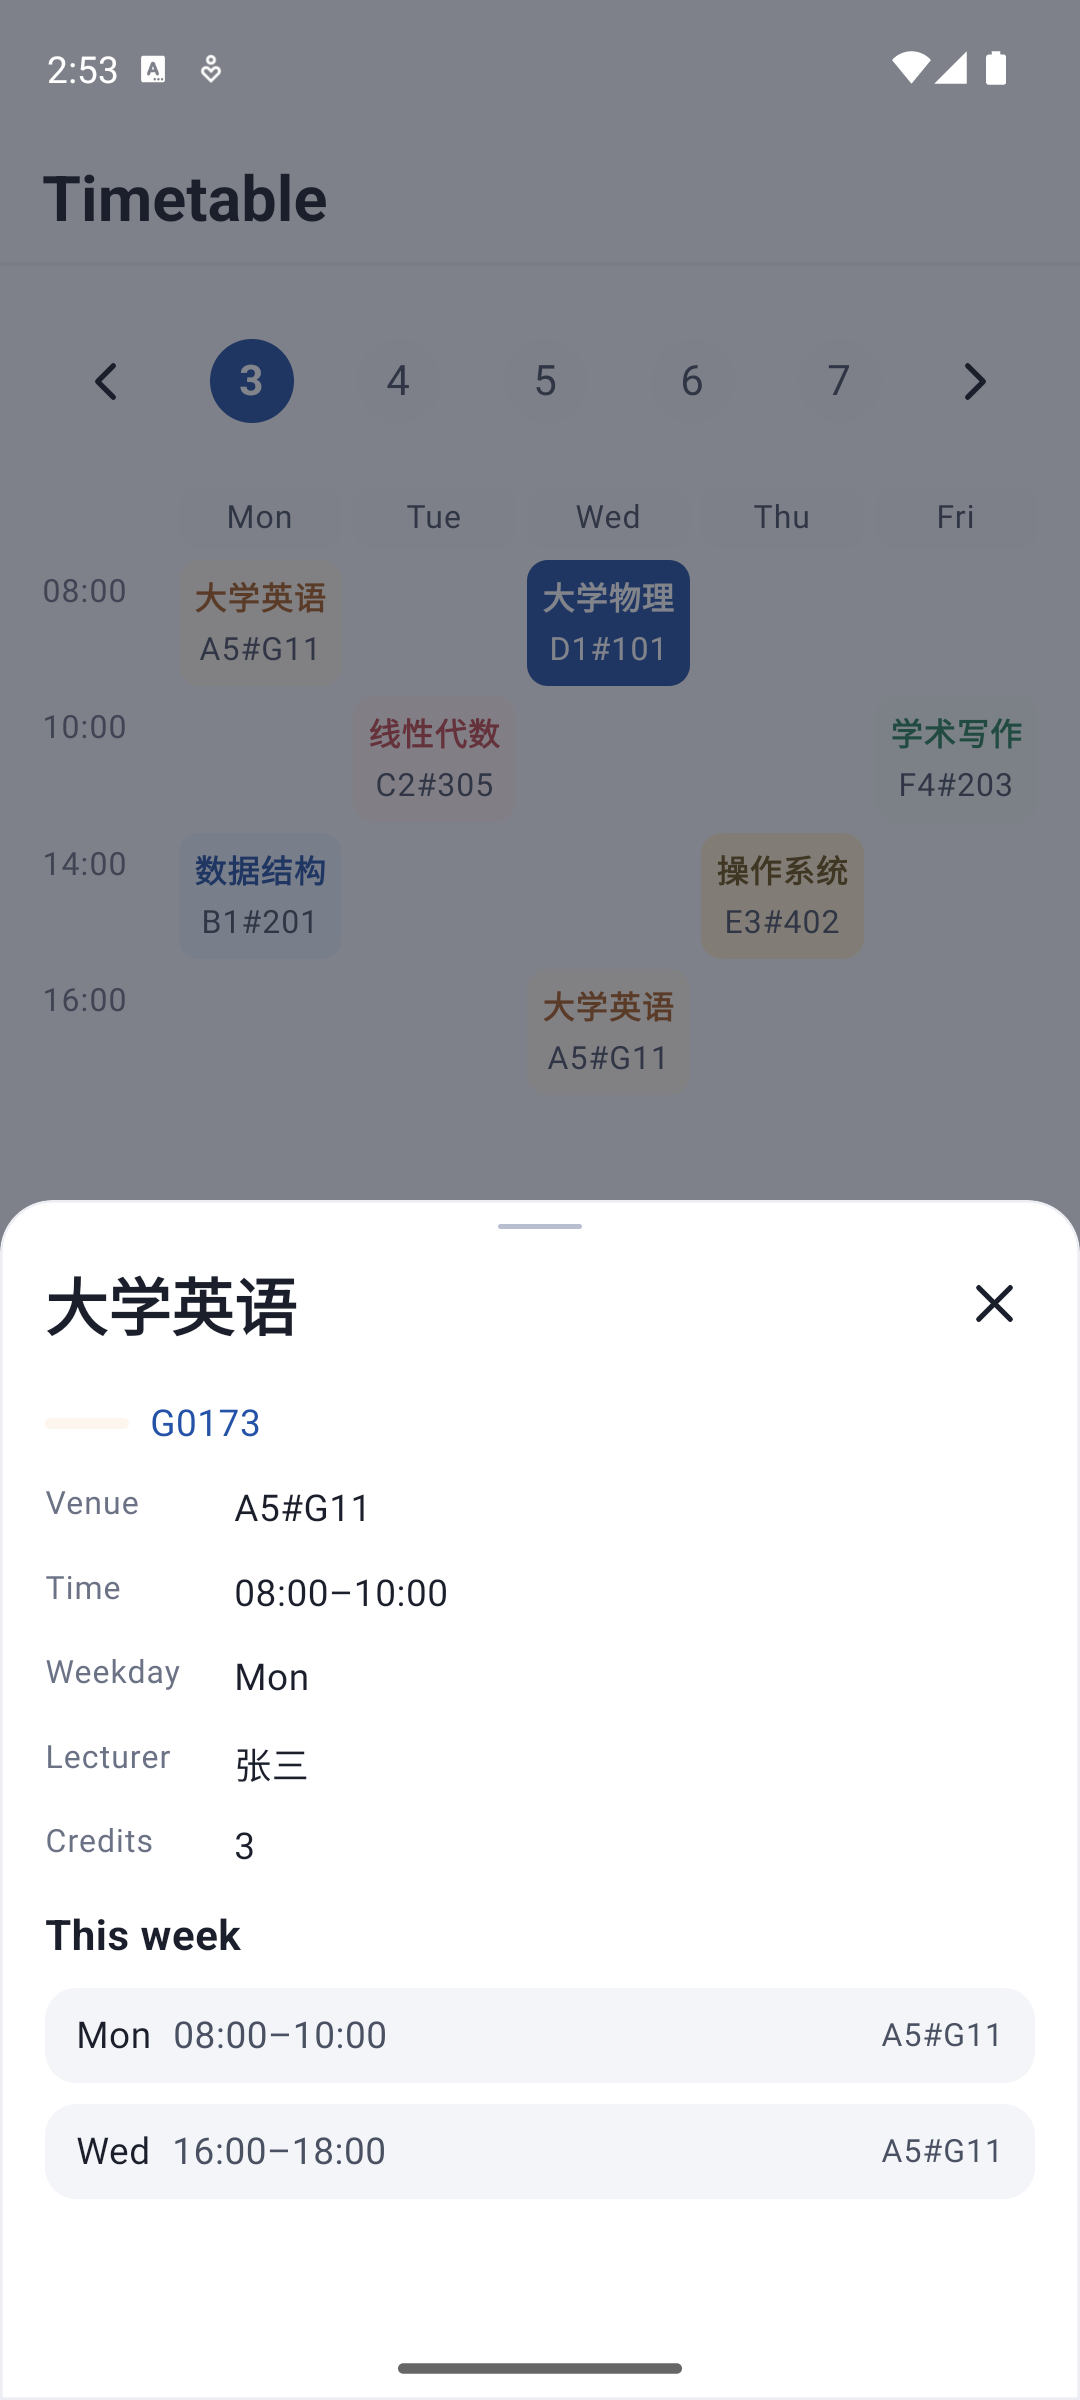
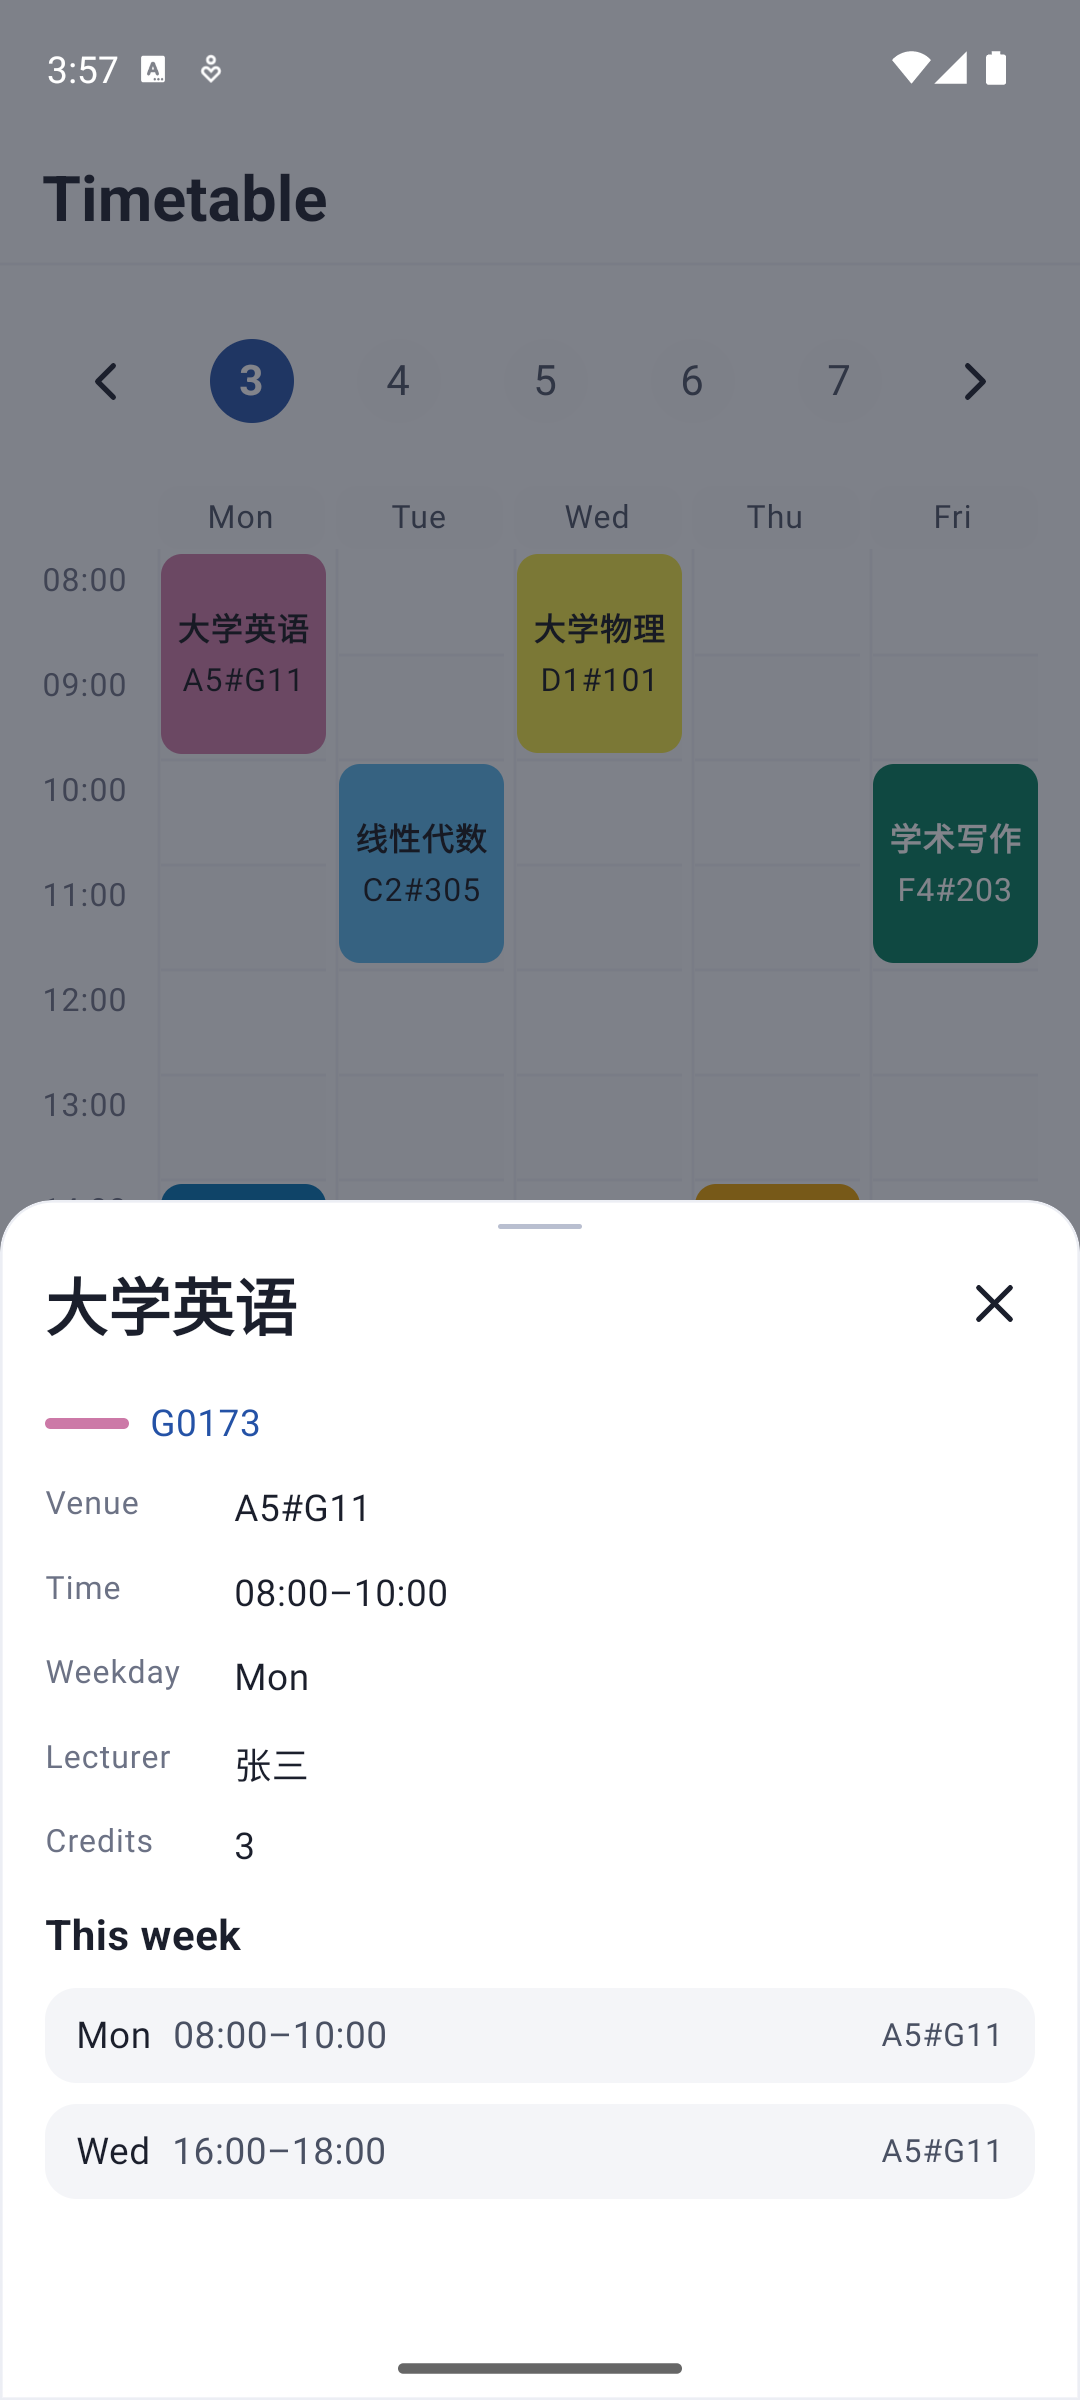
docs(timetable): 回写时间轴与色弱色板裁决，补第二轮设备证据

diff --git a/docs/app/task/课表重做/00-批次总览与施工计划.md b/docs/app/task/课表重做/00-批次总览与施工计划.md
@@ -107,3 +107,35 @@
 - **手势拖拽关闭未做**：三种关闭方式已满足，拖拽留 v1.1。
 - **课程色跨周稳定性**：按本周课程集合分配，集合变化时颜色允许位移（同周内绝对稳定）；如需全局稳定要改成哈希+冲突解决，另开任务。
 - Metro 的 Windows 文件监听在本机对 `app/src` 热更新不稳定：本轮截图均以「重启 Metro + `--clear` + 冷启动 App」取得。
+
+---
+
+## 7. 同日追加（所有者 2026-10-18 第二轮）
+
+> 原话：「从早上 8 点一直到晚上 9 点的时间轴都要做出来。就算没课也要空着。颜色的色差可以大一点，这样更好区分。我是色弱。」
+
+### 7.1 需求 → 方案
+
+| # | 需求 | 方案 | 落点 |
+|---|---|---|---|
+| R6 | 时间轴 08:00–21:00 全画出来，没课也空着 | 固定 **13 个整点格（08–09 … 20–21）+ 08…21 共 14 个刻度**；格高 40dp（令牌相加），**一屏看到 21:00**；空行画整点分隔线 + 隔行浅底 | `proto/P11/TimetableGrid.tsx`、`timetableView.ts` 的 `layoutTimetableCard` |
+| R7 | 色差更大，色弱也能分清 | 新增**色弱友好课程色板** `course-1..6`（CUD/Okabe-Ito 取向：蓝/橙/青绿/品红/天蓝/黄，色相+明度同时拉开，实心填充）；课程卡 = 实心色块 + 同名色承载文字 | `tokens/design-tokens.css` §2.3'、`timetableView.ts` |
+
+**实现细节**：
+- 课程卡按真实 `start_time/end_time` **绝对定位**在时间轴上（⛔ 不再按"开始时间行"堆叠）；窗口外的课丢弃、跨窗口部分钳进窗口；半小时课有 44dp 最短可读高度。
+- 一张卡同时显示**课程名（最多 2 行）+ 地点（1 行）**；列宽加大后 `A5#G11` 这类地点完整可见。
+- 空周不再用空态替换网格：**永远画轴**，底部「导入课表 / 刷新」常驻。
+- 新增/改写用例：`p3a7-timetable-axis`（8 例：分钟解析、top/height、窗口钳制、14 个刻度、空周仍有轴、卡片绝对定位）；p1-16 / p3y2 的空周断言改为"轴仍在 + 导入入口"。
+
+### 7.2 验收结果
+
+- `tsc --noEmit` 通过；全量 Jest **155 套通过 / 1709 例通过（16 skip，0 fail）**；四把尺子 4/4（`gen-tokens` 新增 12 个 textSafe 令牌，**34 个 textSafe 全部达标**）；`expo lint` **0 error / 231 warning（与本次基线一致，未新增）**。
+- 截图（**fixture 数据**）：
+  - [`after-timetable-axis.png`](img-timetable/after-timetable-axis.png)：08:00–21:00 整轴一屏可见、空行可见、6 门课 6 个高差异色、同课两段同色、每卡名称+地点完整
+  - [`after-course-sheet.png`](img-timetable/after-course-sheet.png)：半屏详情仍正常（色条与卡片同色）
+
+### 7.3 颜色为什么这样选（给色弱的可读性）
+
+- 红绿色弱最怕"红/绿"和"浅色互相之间"；本板**避开红绿对**，用蓝 / 橙 / 青绿 / 品红 / 天蓝 / 黄，并让**明度**也拉开（深蓝 vs 天蓝、亮黄 vs 橙）。
+- 颜色**不是唯一通道**：每张卡都有课程名 + 地点文字，详情弹窗也有课程码；即使完全分不清颜色也能用。
+- 6 个填充都配了自己的承载文字色（`course-N-on`），逐对实测 ≥4.5:1，不靠"白字硬压浅色底"。

diff --git a/docs/app/task/课表重做/07-阶段总结.md b/docs/app/task/课表重做/07-阶段总结.md
@@ -28,3 +28,14 @@
 - 弹窗只支持点遮罩 / 关闭键 / 系统返回三种关闭，手势拖拽未做。
 - 课程色跨周稳定性未做（见上）。
 - 本机 Metro 对 `app/src` 的热更新不稳定：改动后需重启 Metro（`--clear`）并冷启动 App 才能看到（与代码无关，记在批次文档 §6.5）。
+
+## 4. 追加（同日第二轮）
+
+| # | 变化 | 落点 | 类型 | 状态 | 对读者的意义 |
+|---|---|---|---|---|---|
+| C-6 | 时间轴固定 08:00–21:00，没课也画空行 | `P11/TimetableGrid` | 改变 | 完成 | 一屏看到全天安排与空档，不再"没课就一块白" |
+| C-7 | 色弱友好课程色板（实心高差异 6 色） | `tokens/design-tokens.css` §2.3' · `timetableView.ts` | 改变 | 完成 | 色弱也能靠色相+明度区分课程；文字仍是第二通道 |
+
+约束：新增 `course-1..6-fill/on` 12 个 textSafe 令牌（34 个全部达标）；空周不再用空态替换网格，底部导入/刷新常驻。
+验证：`tsc` 通过；全量 Jest **155 套 / 1709 例通过**（16 skip）；四把尺子 4/4；`expo lint` 0 error / 231 warning（与基线一致）。
+
